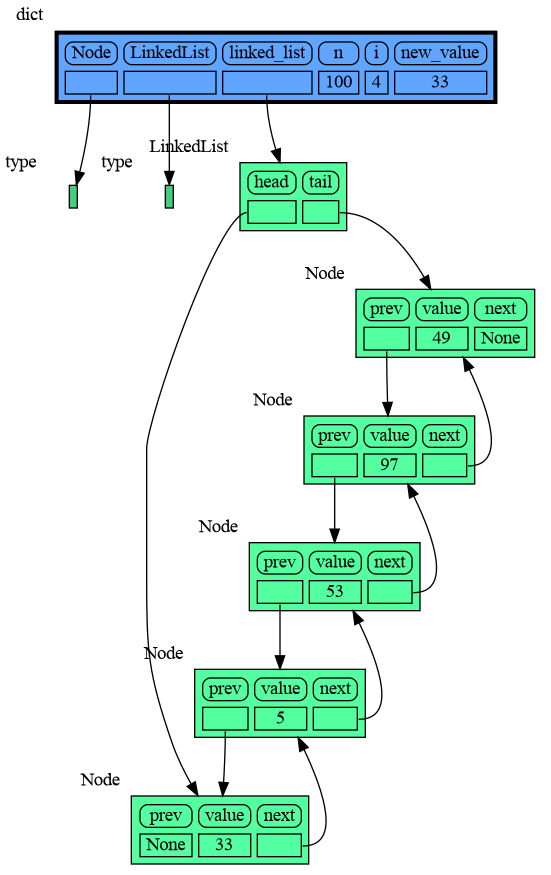
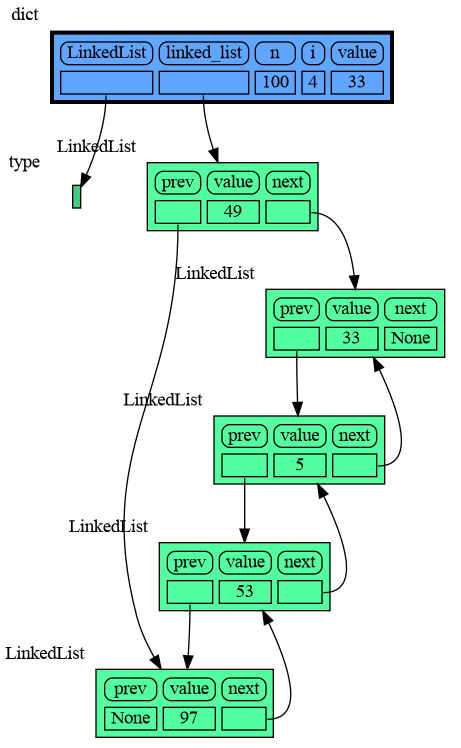
update

diff --git a/images/linked_list.py b/images/linked_list.py
@@ -6,34 +6,30 @@ import memory_graph as mg
 import random
 random.seed(0) # use same random numbers each run
 
-class Node:
-
-    def __init__(self, value):
-        self.prev = None
-        self.value = value
-        self.next = None
-
 class LinkedList:
 
-    def __init__(self):
-        self.head = None
-        self.tail = None
+    def __init__(self, value=None, prev=None, next=None):
+        self.prev = prev
+        self.value = value
+        self.next = next
 
     def add_front(self, value):
-        new_node = Node(value)
-        if self.head is None:
-            self.head = new_node
-            self.tail = new_node
+        if self.value == None:
+            self.value = value 
+        elif self.next is None:
+            new_node = LinkedList(value)
+            self.prev = new_node
+            self.next = new_node
         else:
-            new_node.next = self.head
-            self.head.prev = new_node
-            self.head = new_node
+            new_node = LinkedList(value, self.next)
+            self.next.next = new_node
+            self.next = new_node
 
 linked_list = LinkedList()
 n = 100
 for i in range(n):
-    new_value = random.randrange(n)
-    linked_list.add_front(new_value)
-    if new_value == 33:
+    value = random.randrange(n)
+    linked_list.add_front(value)
+    if value == 33:
         mg.render(locals(), "linked_list.png")
         exit()

diff --git a/README.md b/README.md
@@ -399,35 +399,31 @@ import memory_graph as mg
 import random
 random.seed(0) # use same random numbers each run
 
-class Node:
-
-    def __init__(self, value):
-        self.prev = None
-        self.value = value
-        self.next = None
-
 class LinkedList:
 
-    def __init__(self):
-        self.head = None
-        self.tail = None
+    def __init__(self, value=None, prev=None, next=None):
+        self.prev = prev
+        self.value = value
+        self.next = next
 
     def add_front(self, value):
-        new_node = Node(value)
-        if self.head is None:
-            self.head = new_node
-            self.tail = new_node
+        if self.value == None:
+            self.value = value 
+        elif self.next is None:
+            new_node = LinkedList(value)
+            self.prev = new_node
+            self.next = new_node
         else:
-            new_node.next = self.head
-            self.head.prev = new_node
-            self.head = new_node
-        mg.block(mg.show, locals()) # <--- draw locals
+            new_node = LinkedList(value, self.next)
+            self.next.next = new_node
+            self.next = new_node
 
 linked_list = LinkedList()
 n = 100
 for i in range(n):
-    new_value = random.randrange(n)
-    linked_list.add_front(new_value)
+    value = random.randrange(n)
+    linked_list.add_front(value)
+	mg.show(locals())
 ```
 ![linked_list.png](https://raw.githubusercontent.com/bterwijn/memory_graph/main/images/linked_list.png)
 
